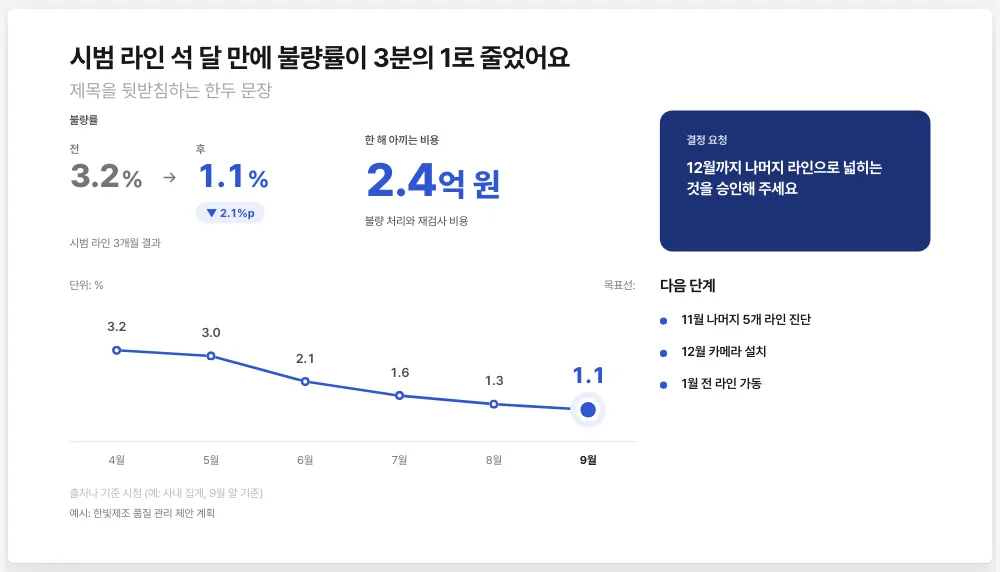
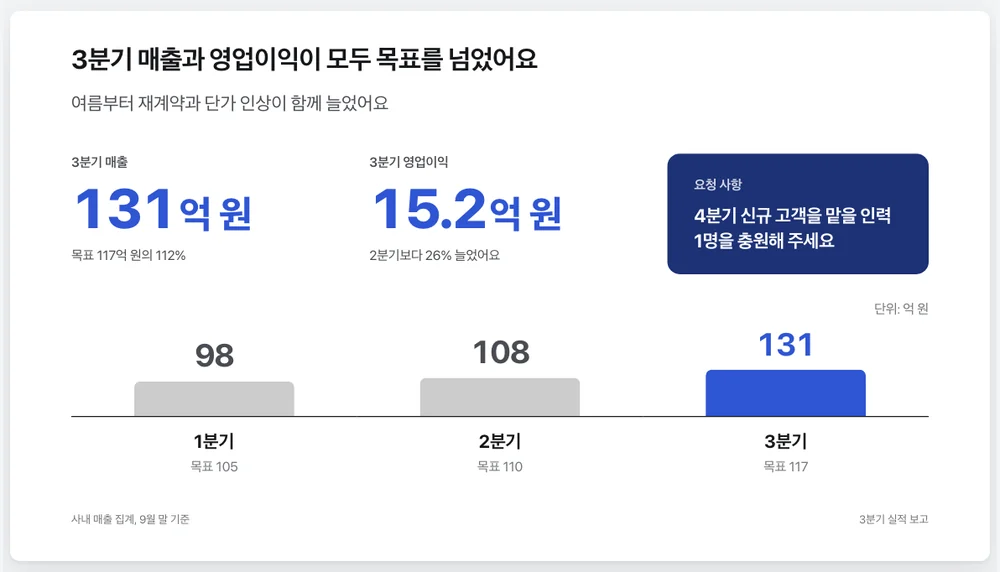
fix: 첫 화면 편집기 그림이 예전 앱 모습이던 것
첫 화면 그림은 판으로 바꾸기 전의 편집기였다. 컴포넌트 목록 위에 예전
안내가 남아 있었고, 고른 장에는 비운 부제와 출처, 목표선의 안내 글이 흐린
글씨로 떠 있었다.

지금 앱에서 지어낸 '3분기 실적 보고'(사업관리팀, 장 8개)를 만들어 다시
찍었다. 칸마다 예시를 진짜 글로 채웠고, 셋째 장은 큰 숫자 둘, 요청 사항,
분기별 매출 막대로 꾸민 컴포넌트 장이다. 부제까지 채워도 '자리가
모자라요'가 나지 않는 짜임으로 골랐다. 오른쪽은 컴포넌트 탭이다. 크기는
예전과 같다(2400×1500, 폰용 장 그림 1000×572). 그림 설명과 대체 글도 새
그림에 맞췄다.

Claude-Session: https://claude.ai/code/session_01WYCmhNDHMyg9SdyxiMGoEV

diff --git a/site/index.html b/site/index.html
@@ -63,9 +63,9 @@
         <figure class="shot hero-shot">
           <picture>
             <source media="(max-width: 640px)" srcset="images/hero-m.webp" width="1000" height="572">
-            <img src="images/hero.webp" width="2400" height="1500" alt="결의 편집 화면. 왼쪽에 장 목록, 가운데에 불량률 전과 후, 한 해 아끼는 비용, 결정 요청, 추이 차트가 놓인 장, 오른쪽에 끌어다 놓을 컴포넌트 목록이 있어요." fetchpriority="high">
+            <img src="images/hero.webp" width="2400" height="1500" alt="결의 편집 화면. 왼쪽에 장 목록, 가운데에 3분기 매출과 영업이익, 요청 사항, 분기별 매출 막대가 놓인 장, 오른쪽에 끌어다 놓을 컴포넌트 목록이 있어요." fetchpriority="high">
           </picture>
-          <figcaption>편집 화면. 예시 발표의 회사와 숫자는 지어낸 것이에요.</figcaption>
+          <figcaption>편집 화면. 예시 발표의 이름과 숫자는 지어낸 것이에요.</figcaption>
         </figure>
       </div>
     </section>
